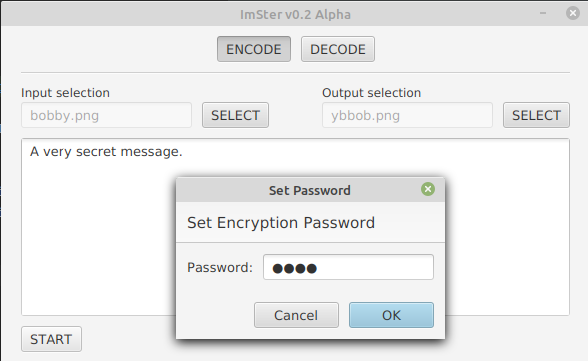
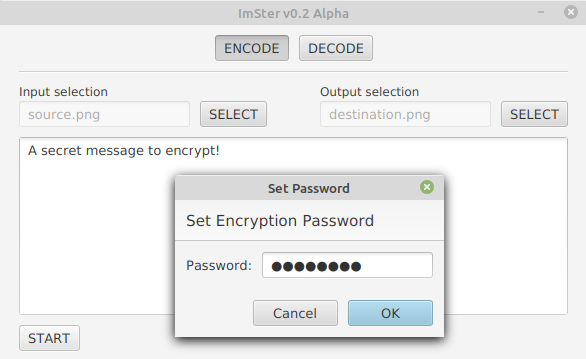
Updated GUI image

diff --git a/README.md b/README.md
@@ -2,7 +2,7 @@
 
 ImSter is a tool that lets you hide and view text inside images securely. 
 
-![Main view of GUI](images/encodeView.png)
+![Main view of GUI](images/mainView.png)
 
 Text is password encrypted using AES and encoded into the pixels of the image themselves
 rather than any metadata. It is impossible for anyone to even know that there is hidden content within
